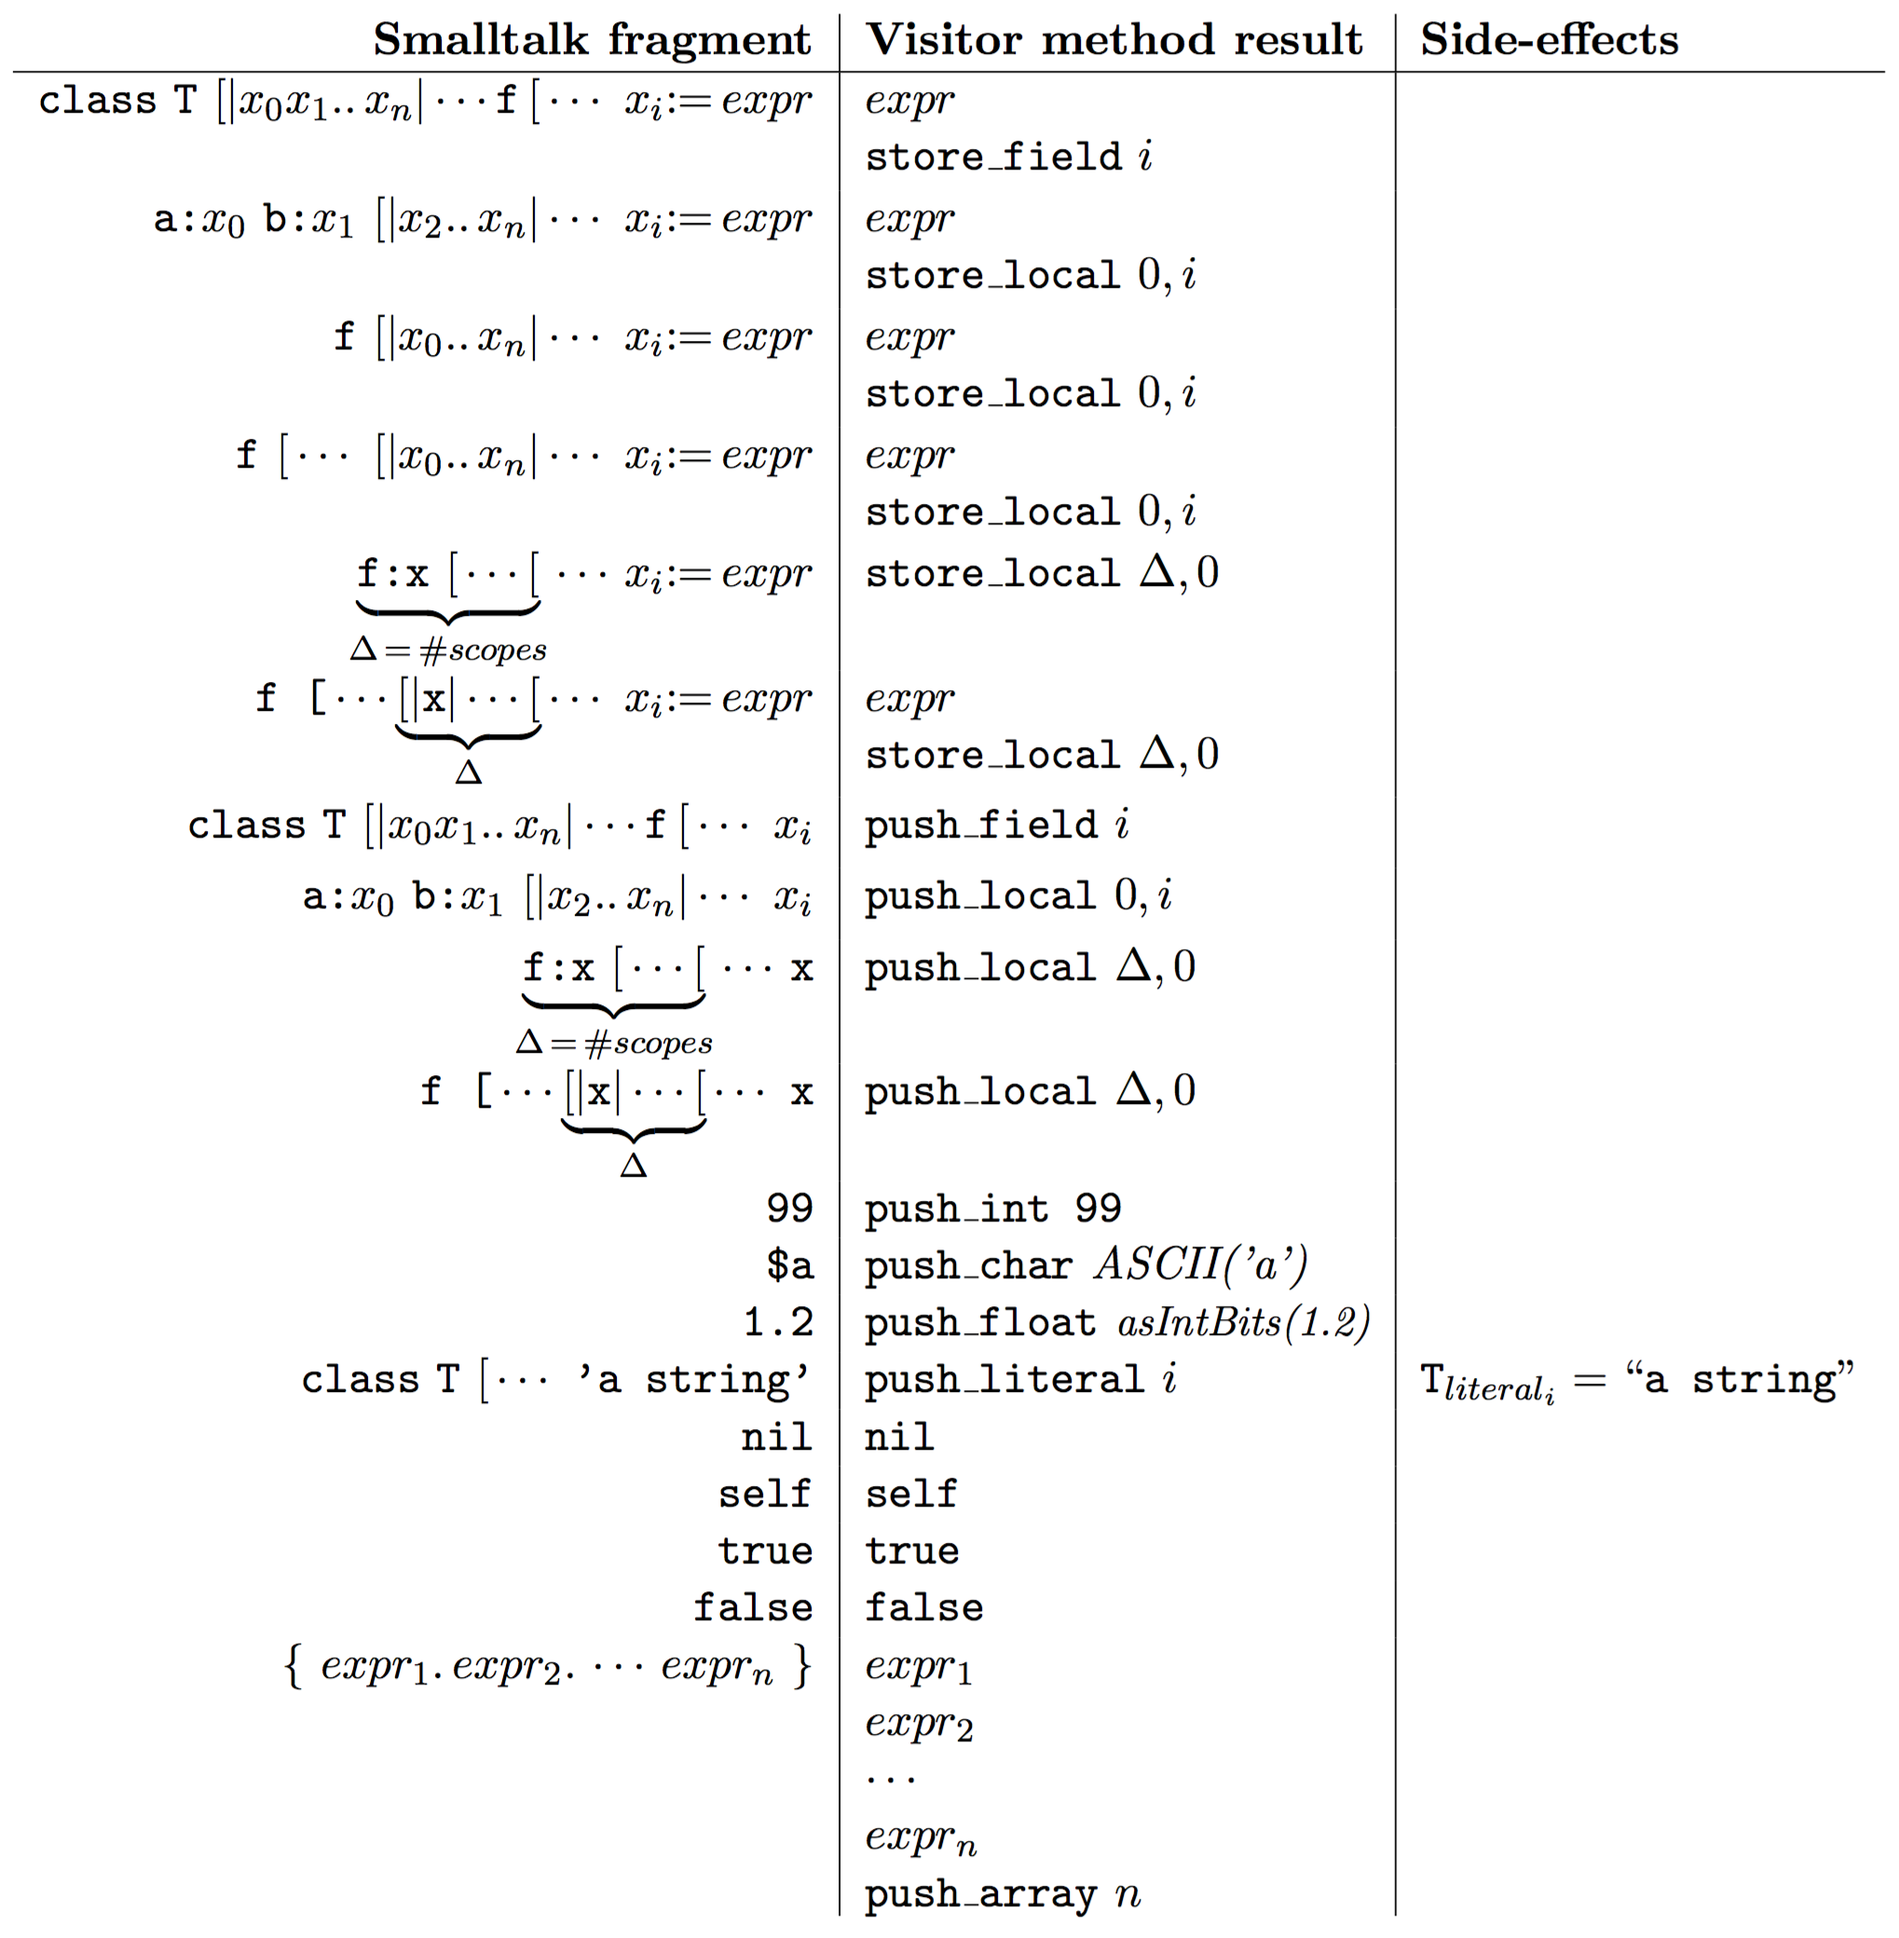
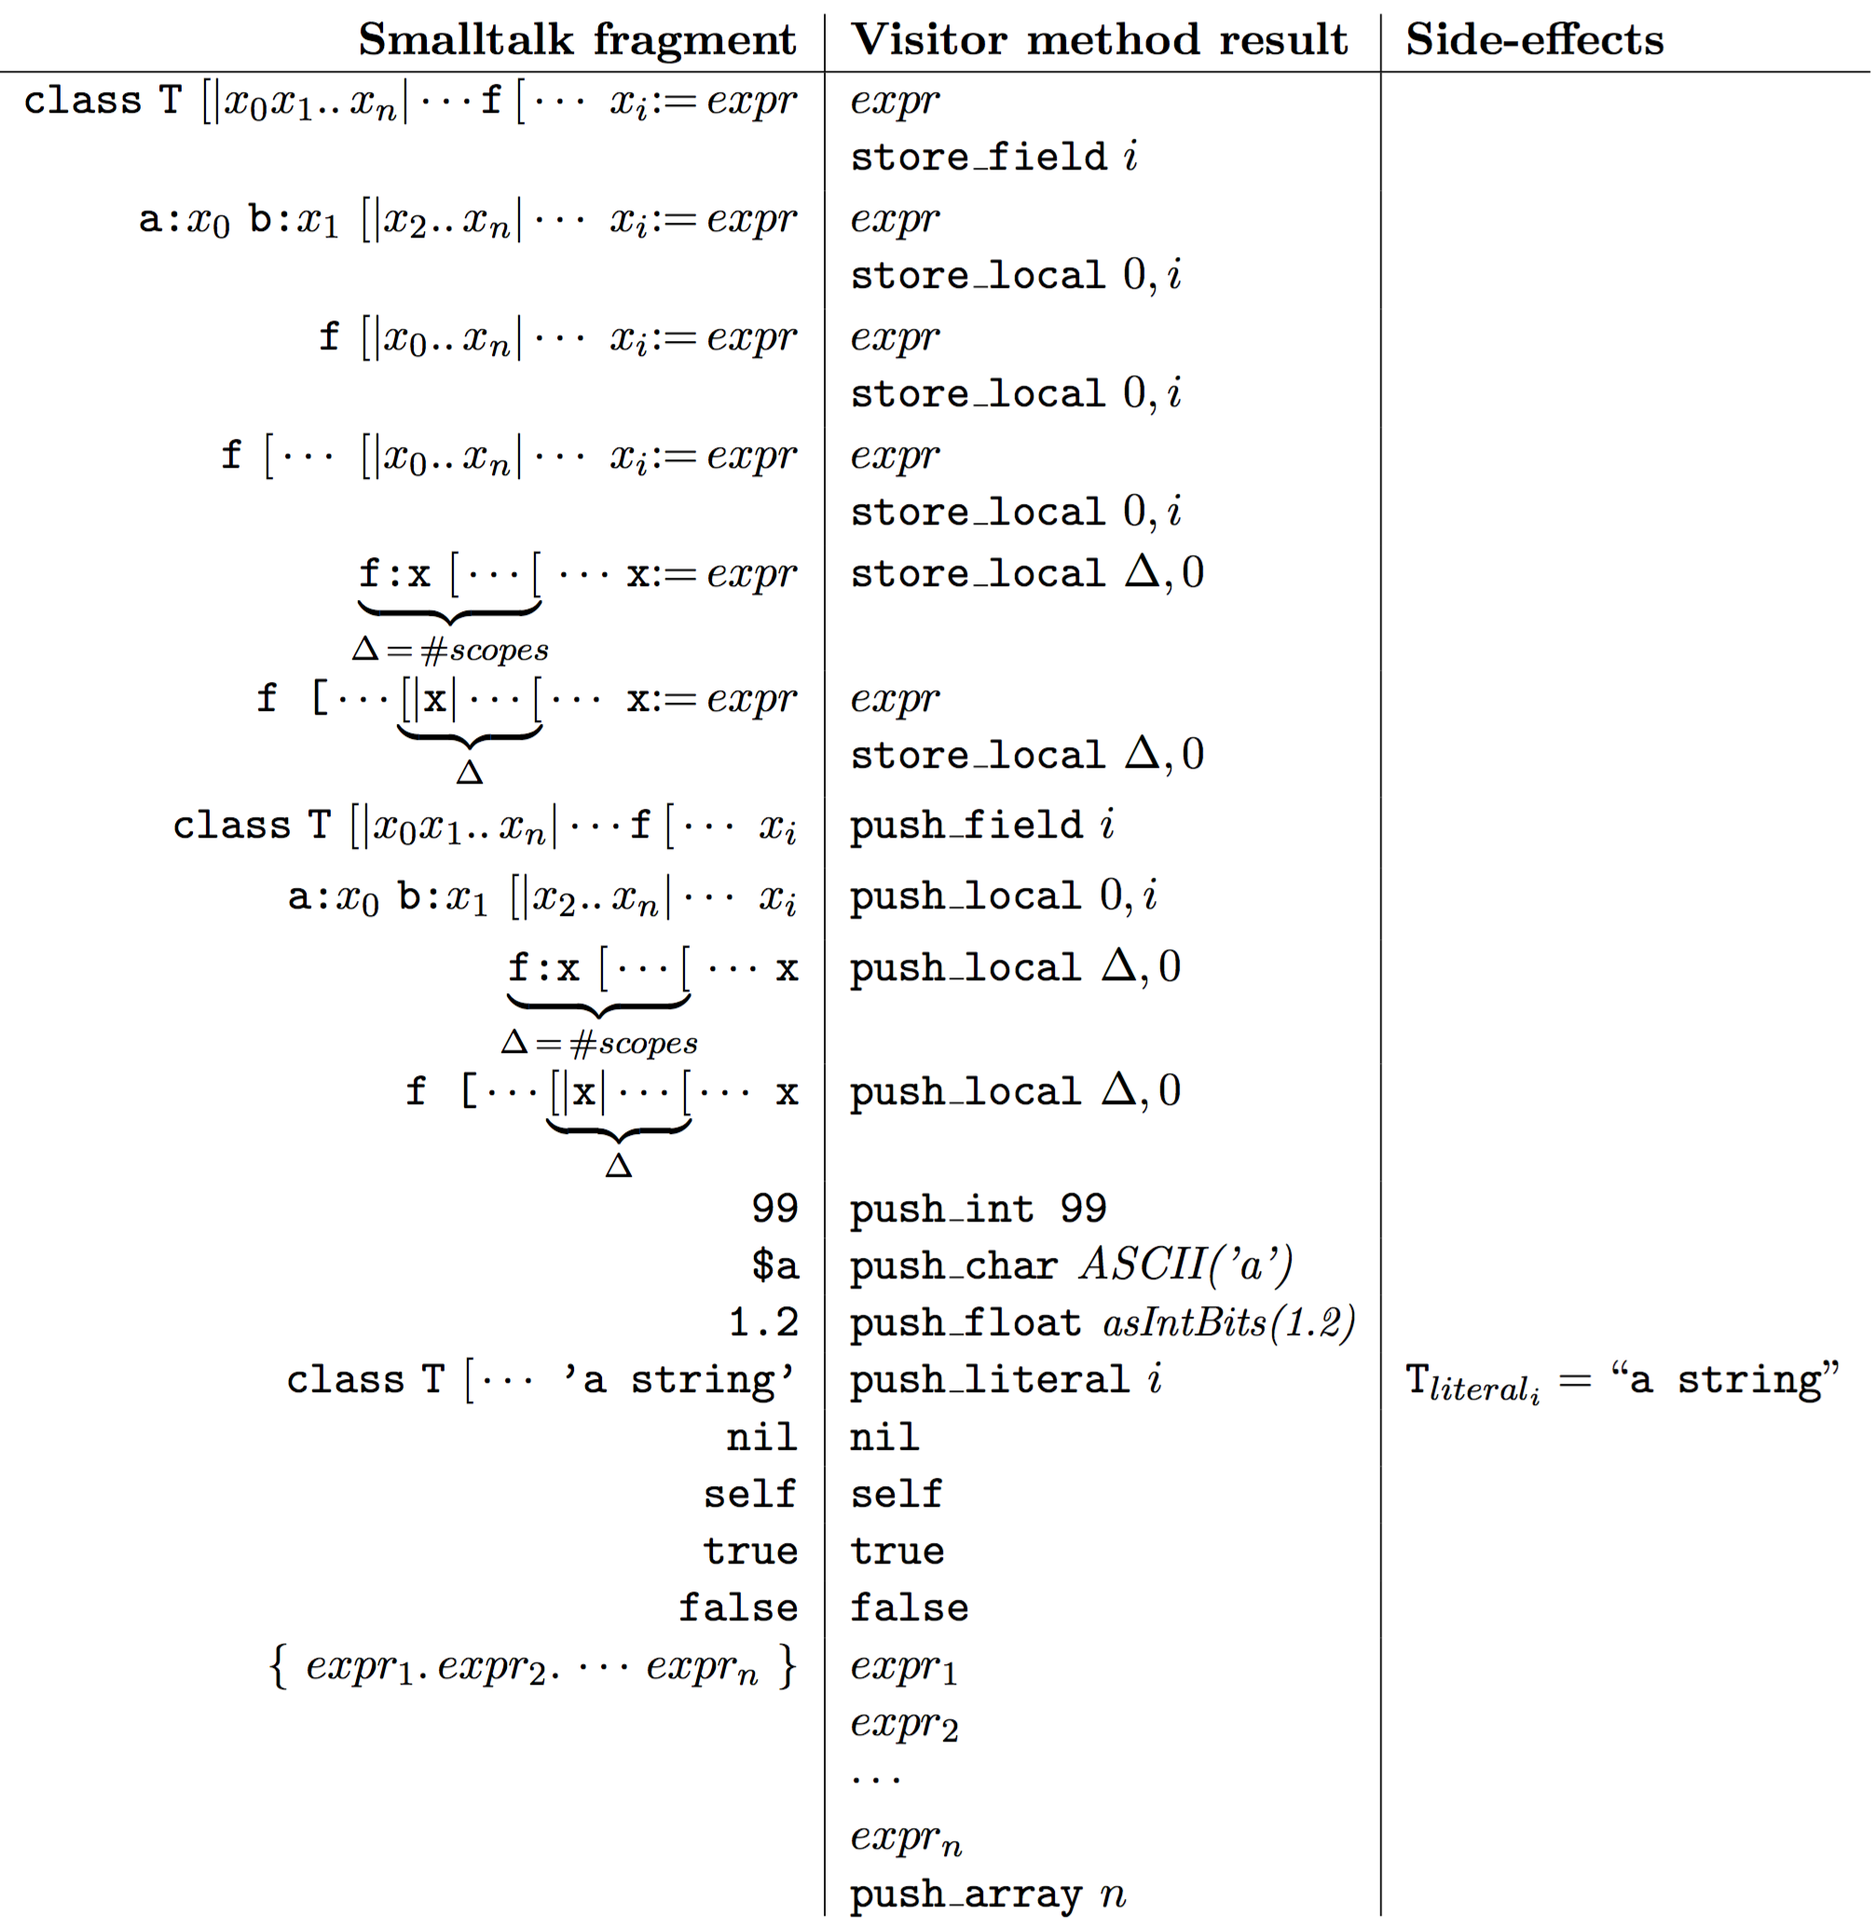
update proj descr

diff --git a/projects/bytecode.tex b/projects/bytecode.tex
@@ -526,12 +526,12 @@ $expr$\\
 {\tt store\_local} $0, i$\vspace{3pt}
 \end{minipage} & \\
 
-$\underbrace{\text{\tt f:}{\tt x~}{\tt [}\cdots [}_{\Delta \,=\,\#scopes} \cdots\, x_i {\tt :=}\, expr$ &
+$\underbrace{\text{\tt f:}{\tt x~}{\tt [}\cdots [}_{\Delta \,=\,\#scopes} \cdots\, \text{\tt x} {\tt :=}\, expr$ &
 \begin{minipage}[t]{0.25\linewidth}
 {\tt store\_local} $\Delta, 0$
 \end{minipage} & \\
 
-$\text{\tt f [}\cdots\underbrace{{\tt [|x| }\cdots [}_{\Delta}\cdots~ x_i {\tt :=} \,expr$ &
+$\text{\tt f [}\cdots\underbrace{{\tt [|x| }\cdots [}_{\Delta}\cdots~ \text{\tt x} {\tt :=} \,expr$ &
 \begin{minipage}[t]{0.25\linewidth}
 $expr$\\
 {\tt store\_local} $\Delta, 0$\vspace{5pt}
